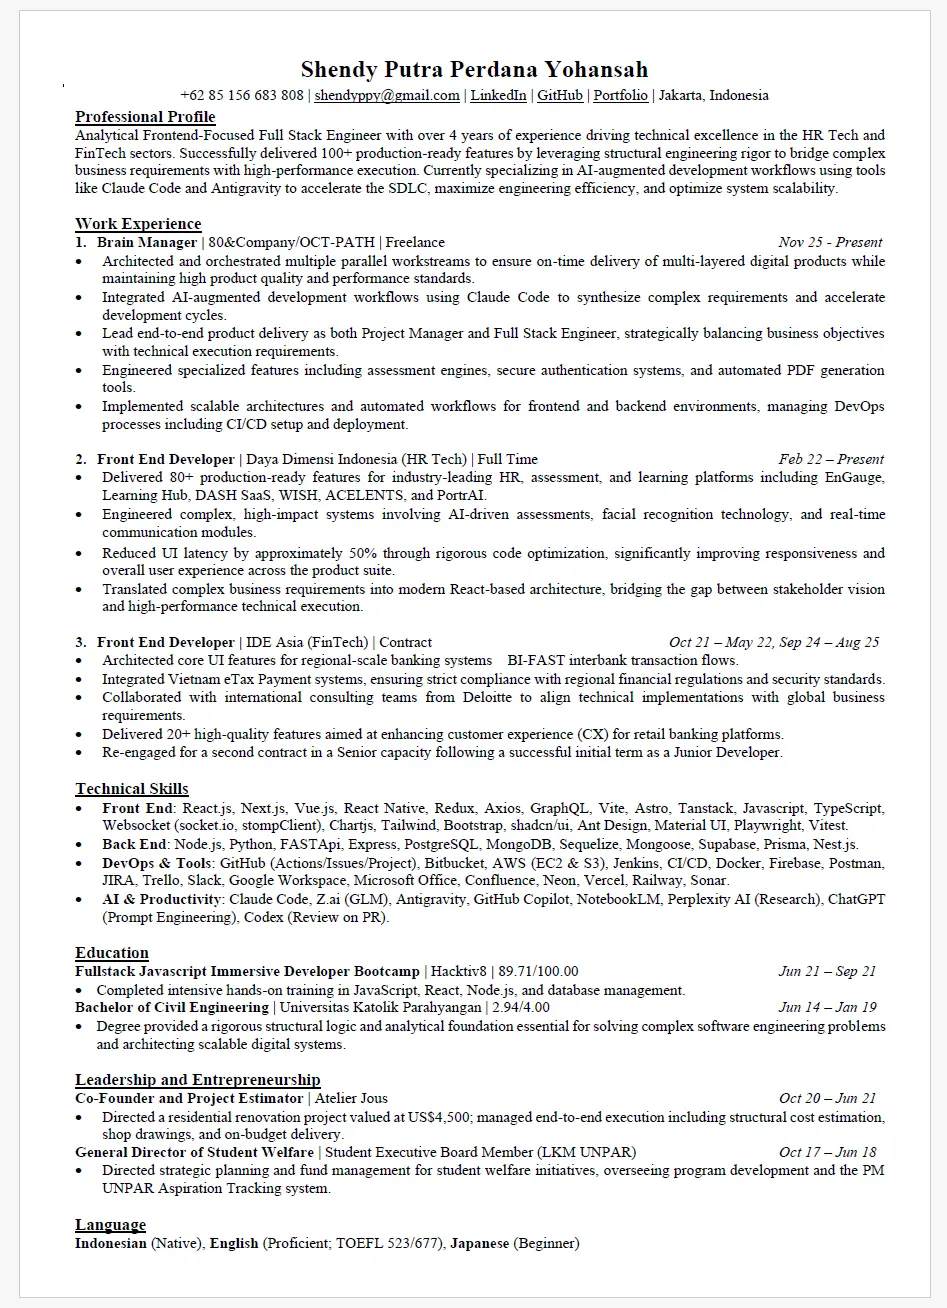
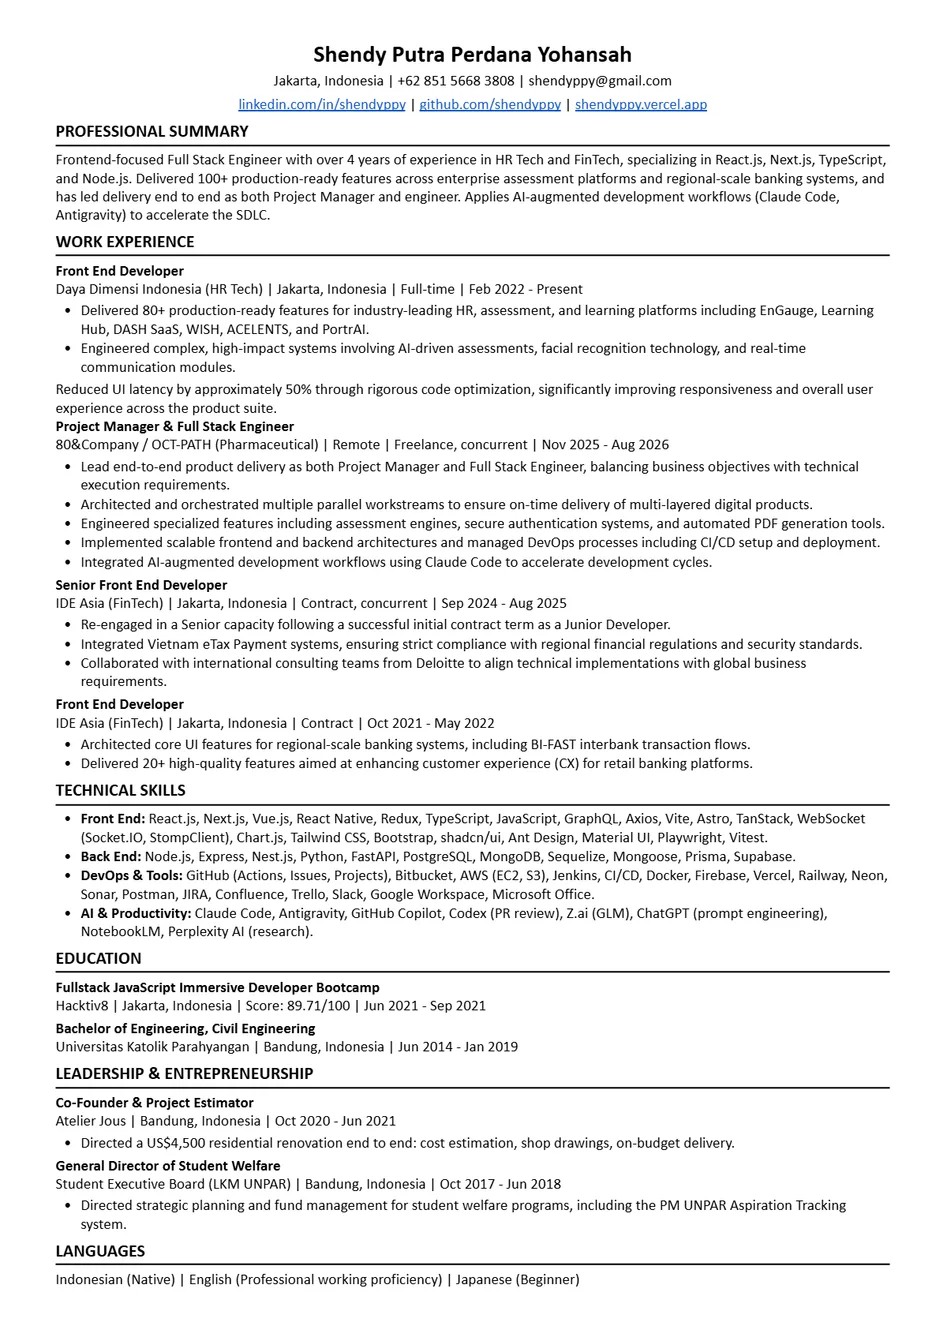
feat(dive): make the CV impossible to miss
Review feedback: the old card's pulsing, colour-bursting button made
people notice the CV; the restyled record was too quiet.

The CV record now draws the eye in the dive's own lime: the panel breathes
a soft accent glow, its header is flagged with a blinking LATEST, a scan
line keeps sweeping the preview until it is hovered, and the download is a
solid lime bar with a shimmer passing through it every few seconds and a
sonar ping around its arrow, which nudges downward on hover. Reduced
motion stops every loop.

The preview image is regenerated from the updated PDF (rendered with
pdf.js), so it shows the August 2026 end date rather than the old
"Present".

Claude-Session: https://claude.ai/code/session_01Dverx6fJeGFFuwTZm75mD5

Changed region(s): [[0.0612, 0.0306, 0.9493, 0.9786]]

diff --git a/apps/web/src/app/globals.css b/apps/web/src/app/globals.css
@@ -750,18 +750,55 @@ body { background: #083352; transition: background-color 900ms ease; }
   transition: transform 1600ms ease-in-out, filter 500ms ease;
 }
 .cv-record:hover .cv-preview-img { transform: translateY(calc(-100% + 170px)); filter: none; }
+/* Catchy, but in the dive's own voice: the record breathes a lime glow, a
+   scan line keeps sweeping the preview, and the download is a solid lime bar
+   with a shimmer passing through it and a sonar ping on its arrow. */
+.cv-record { position: relative; animation: cv-breathe 3.2s ease-in-out infinite; }
+.cv-preview::after {
+  content: ""; position: absolute; inset: 0 0 auto; height: 38%; pointer-events: none;
+  background: linear-gradient(to bottom, transparent, color-mix(in oklab, var(--accent) 22%, transparent), transparent);
+  animation: cv-scan 3.2s ease-in-out infinite;
+}
+.cv-record:hover .cv-preview::after { opacity: 0; }
 .cv-download {
+  position: relative;
+  overflow: hidden;
   display: flex;
   align-items: center;
   justify-content: center;
-  gap: 0.5rem;
-  padding: 14px 16px;
-  border-top: 1px solid var(--border);
-  color: var(--foreground);
-  transition: color 200ms, background-color 200ms;
+  gap: 0.9rem;
+  padding: 15px 16px;
+  font-weight: 700;
+  color: var(--accent-foreground);
+  background: var(--accent);
+  transition: background-color 200ms, letter-spacing 250ms;
 }
-.cv-download:hover, .cv-download:focus-visible { color: var(--accent); background: color-mix(in oklab, var(--accent) 8%, transparent); }
-@media (prefers-reduced-motion: reduce) { .cv-preview-img { transition: none; } }
+.cv-download::before {
+  content: ""; position: absolute; inset: 0; width: 45%; pointer-events: none;
+  background: linear-gradient(100deg, transparent, rgb(255 255 255 / 0.55), transparent);
+  transform: translateX(-120%) skewX(-20deg);
+  animation: cv-shimmer 3.2s ease-in-out infinite;
+}
+.cv-download-icon { position: relative; display: grid; place-items: center; }
+.cv-download-icon::after {
+  content: ""; position: absolute; inset: -3px; border-radius: 9999px;
+  border: 1.5px solid var(--accent-foreground);
+  animation: cv-ping 1.6s ease-out infinite;
+}
+.cv-download:hover, .cv-download:focus-visible { background: color-mix(in oklab, var(--accent) 85%, white); letter-spacing: 0.18em; }
+.cv-download:hover .cv-download-icon svg { animation: cv-nudge 700ms ease-in-out infinite; }
+@keyframes cv-breathe {
+  0%, 100% { box-shadow: 0 0 0 1px color-mix(in oklab, var(--accent) 25%, transparent), 0 0 18px color-mix(in oklab, var(--accent) 10%, transparent); }
+  50% { box-shadow: 0 0 0 1px color-mix(in oklab, var(--accent) 60%, transparent), 0 0 34px color-mix(in oklab, var(--accent) 28%, transparent); }
+}
+@keyframes cv-scan { from { transform: translateY(-100%); } to { transform: translateY(270%); } }
+@keyframes cv-shimmer { 0%, 55% { transform: translateX(-120%) skewX(-20deg); } 100% { transform: translateX(320%) skewX(-20deg); } }
+@keyframes cv-ping { from { transform: scale(0.7); opacity: 0.9; } to { transform: scale(1.35); opacity: 0; } }
+@keyframes cv-nudge { 50% { transform: translateY(3px); } }
+@media (prefers-reduced-motion: reduce) {
+  .cv-preview-img { transition: none; }
+  .cv-record, .cv-preview::after, .cv-download::before, .cv-download-icon::after, .cv-download:hover .cv-download-icon svg { animation: none; }
+}
 /* Short screens: the CV preview is 170px of a stage that has none to spare;
    the record keeps its rows and download. */
 @media (max-height: 700px) {

diff --git a/apps/web/src/components/molecules/CvRecord.tsx b/apps/web/src/components/molecules/CvRecord.tsx
@@ -7,18 +7,22 @@ type CvRecordProps = { cv: Pick<CvInfoDto, "title" | "previewImage" | "downloadP
 
 /**
  * The CV as a dive record, in the same hairline-panel voice as the diver and
- * sonar readouts: mono header, a preview window that scrolls the page and
- * warms to colour on hover, label rows and a lime bracketed download.
+ * sonar readouts: mono header flagged LATEST, a preview window that scrolls
+ * the page and warms to colour on hover, label rows, and a lime download bar
+ * that shimmers and pings so the CV is the first thing a visitor spots.
  */
 export const CvRecord = ({ cv }: CvRecordProps) => (
   <div className="record-panel cv-record group">
     <div className="record-head">
       <span>CURRICULUM VITAE</span>
       <span aria-hidden className="record-rule" />
-      <span className="text-accent">DOC-06</span>
+      <span className="inline-flex items-center gap-2 text-accent">
+        <span aria-hidden className="size-1.5 rounded-full bg-accent animate-blink" />
+        LATEST
+      </span>
     </div>
     <div className="cv-preview" data-cv-preview>
-      <Image src={cv.previewImage} alt="CV preview" width={420} height={594} className="cv-preview-img" />
+      <Image src={cv.previewImage} alt="CV preview" width={420} height={580} className="cv-preview-img" />
     </div>
     <dl className="m-0">
       <div className="record-row">
@@ -31,10 +35,10 @@ export const CvRecord = ({ cv }: CvRecordProps) => (
       </div>
     </dl>
     <a href={cv.downloadPath} download target="_blank" rel="noopener noreferrer" aria-label="Download CV" className="cv-download">
-      <span className="text-accent">[</span>
       <span>DOWNLOAD CV</span>
-      <ArrowDown aria-hidden className="size-3.5" />
-      <span className="text-accent">]</span>
+      <span aria-hidden className="cv-download-icon">
+        <ArrowDown className="size-4" />
+      </span>
     </a>
   </div>
 );

diff --git a/apps/web/src/components/molecules/CvRecord.test.tsx b/apps/web/src/components/molecules/CvRecord.test.tsx
@@ -12,7 +12,7 @@ describe("CvRecord", () => {
   test("reads as a record: header code, file title and format rows", () => {
     const { container } = render(<CvRecord cv={cv} />);
     expect(container.querySelector(".record-head")).toHaveTextContent("CURRICULUM VITAE");
-    expect(container.querySelector(".record-head")).toHaveTextContent("DOC-06");
+    expect(container.querySelector(".record-head")).toHaveTextContent("LATEST");
     const row = (label: string) => within(container).getByText(label).closest(".record-row")?.querySelector("dd");
     expect(row("FILE")).toHaveTextContent("Curriculum Vitae");
     expect(row("FORMAT")).toHaveTextContent("PDF · A4");
